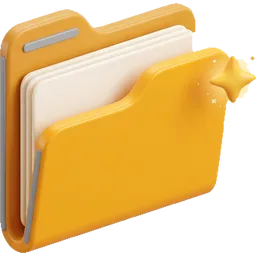
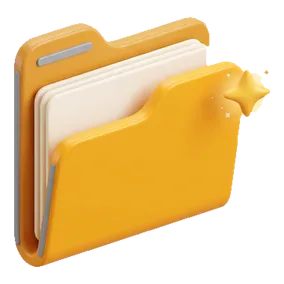
feat(management): trigger top loader when navigating to and from Client 360 details

diff --git a/src/components/management/AdminProjectsTable.tsx b/src/components/management/AdminProjectsTable.tsx
@@ -2,6 +2,7 @@
 
 import React, { useState, useMemo, useEffect, useCallback } from 'react';
 import { useSearchParams, useRouter } from 'next/navigation';
+import { useTopLoader } from 'nextjs-toploader';
 import { ProjectRecord } from '@/types';
 import {
   Table,
@@ -126,6 +127,7 @@ export function AdminProjectsTable({
   isUpdatingId = null,
 }: AdminProjectsTableProps) {
   const router = useRouter();
+  const topLoader = useTopLoader();
   const searchParams = useSearchParams();
   const canManageProjects = useUserStore((s) => s.canManageProjects());
   const urlProjectId = searchParams.get('project');
@@ -767,6 +769,7 @@ export function AdminProjectsTable({
                       <button
                         type="button"
                         onClick={() => {
+                          topLoader.start();
                           router.push(
                             `/management/clients?client=${encodeURIComponent(
                               selectedProject.email.toLowerCase().trim()

diff --git a/src/app/management/clients/ClientsPageContent.tsx b/src/app/management/clients/ClientsPageContent.tsx
@@ -161,13 +161,19 @@ function InnerClientsPage() {
         params.delete('project');
       }
       const qs = params.toString();
-      router.replace(qs ? `/management/clients?${qs}` : '/management/clients', {
-        scroll: false,
+      const targetUrl = qs ? `/management/clients?${qs}` : '/management/clients';
+      topLoader.start();
+      router.push(targetUrl, {
+        scroll: true,
       });
       setActiveTab(section);
     },
-    [router, searchParams]
+    [router, searchParams, topLoader]
   );
+
+  useEffect(() => {
+    topLoader.done();
+  }, [selectedClientParam, topLoader]);
 
   const handleSectionChange = useCallback(
     (val: string) => {
